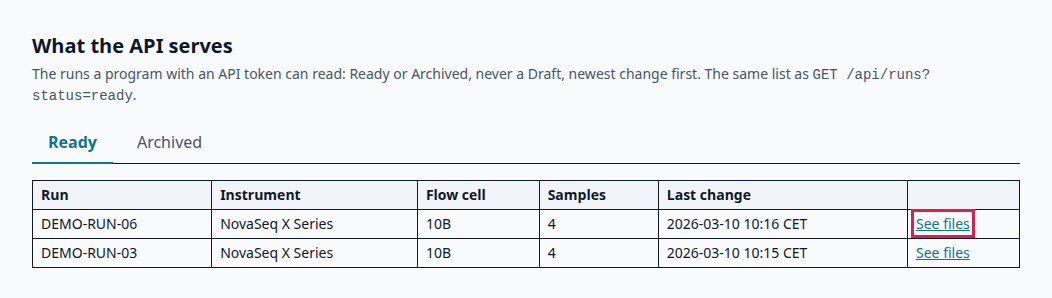
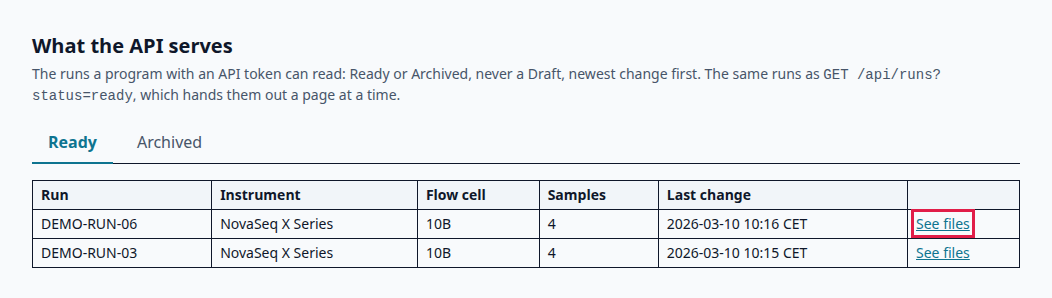
Review follow-ups: the list fits a phone; a wrong status gets the API's own words
- The list's table scrolls in its own box on a phone instead of making
  the page scroll sideways (its hidden "Files" header label too).
- A status other than ready or archived is refused with the API's exact
  400 text, and a test compares the two.
- The v1 answer for a run with no v1 sheet and no stored reason is now
  compared with the API's too.
- The list and the guide no longer say "the same list" as GET /api/runs:
  the API hands the runs out a page at a time. The guide says a Draft's
  page is not audited and why anyone signed in may look.
- The PDF size text and the back link's tab are worked out in the route,
  not the template; an unused class is gone. The list picture is retaken.

Changed region(s): [[0.73, 0.2114, 0.9125, 0.2718], [0.1217, 0.302, 0.3954, 0.3624]]

diff --git a/src/seqsetup/templates/served_runs/run.html b/src/seqsetup/templates/served_runs/run.html
@@ -5,6 +5,7 @@
      run:        SequencingRun
      files:      list[ServedFile] — routes/served_runs.py; empty for a Draft
      not_served: str — the API's 403 detail for a Draft, else ""
+     back_status: "ready" | "archived" — the list tab to go back to
 
    A stored text file is shown exactly as stored. A browser drops the one
    newline right after <pre>'s start tag, so one is written there: a file
@@ -17,7 +18,7 @@
 {% block content %}
 <div class="max-w-5xl mx-auto p-4 space-y-4">
   <div>
-    <a class="text-sm text-primary underline" href="/served-runs?status={{ 'archived' if run.status.value == 'archived' else 'ready' }}">&larr; What the API serves</a>
+    <a class="text-sm text-primary underline" href="/served-runs?status={{ back_status }}">&larr; What the API serves</a>
     <h1 class="text-xl font-semibold mt-1">{{ run.run_name or "Untitled run" }}</h1>
     <p class="text-sm text-slate-600">
       {{ run.status.value | capitalize }} &middot; <a class="text-primary underline" href="/runs/{{ run.id }}">Open the run</a>
@@ -25,7 +26,7 @@
   </div>
 
   {% if not_served %}
-  <p class="served-answer">The API does not serve Drafts. Each address answers
+  <p>The API does not serve Drafts. Each address answers
     <code>403: {{ not_served }}</code></p>
   {% else %}
   <p class="text-sm text-slate-600">
@@ -36,9 +37,9 @@
     <h2 class="font-semibold">{{ f.label }}</h2>
     <p class="text-sm"><code>GET /api/runs/{{ run.id }}/{{ f.resource }}</code></p>
     {% if f.missing %}
-    <p class="served-answer text-sm text-slate-600">The API answers <code>404: {{ f.missing }}</code></p>
+    <p class="text-sm text-slate-600">The API answers <code>404: {{ f.missing }}</code></p>
     {% elif f.pdf_size is not none %}
-    <p class="text-sm">A PDF of {{ "{:,}".format(f.pdf_size) }} bytes.
+    <p class="text-sm">A PDF of {{ f.pdf_size_text }} bytes.
       <a class="text-primary underline" href="/runs/{{ run.id }}/export/validation-pdf">Download PDF</a></p>
     {% else %}
 <pre class="served-content">

diff --git a/src/seqsetup/templates/served_runs/list.html b/src/seqsetup/templates/served_runs/list.html
@@ -15,7 +15,8 @@
     <h1 class="text-xl font-semibold mb-1">What the API serves</h1>
     <p class="text-sm text-slate-600">
       The runs a program with an API token can read: Ready or Archived, never a Draft,
-      newest change first. The same list as <code>GET /api/runs?status={{ status }}</code>.
+      newest change first. The same runs as <code>GET /api/runs?status={{ status }}</code>, which
+      hands them out a page at a time.
     </p>
   </div>
 
@@ -30,6 +31,9 @@
   {% if not runs %}
     <p class="text-slate-500">No {{ status }} runs.</p>
   {% else %}
+  {# Its columns are wider than a phone: the table scrolls in its box.
+     "relative" keeps the hidden "Files" header label inside the box too. #}
+  <div class="relative overflow-x-auto">
   <table class="w-full border-collapse text-sm">
     <thead>
       <tr class="bg-slate-100">
@@ -54,6 +58,7 @@
       {% endfor %}
     </tbody>
   </table>
+  </div>
   {% endif %}
 </div>
 {% endblock %}

diff --git a/src/seqsetup/routes/served_runs.py b/src/seqsetup/routes/served_runs.py
@@ -31,6 +31,7 @@ router = APIRouter(tags=["served-runs"])
 
 _STATUSES = ("ready", "archived")
 _NOT_SERVED = "Run not available via API. Only ready or archived runs can be accessed."
+_BAD_STATUS = "Invalid status. Only 'ready' and 'archived' are allowed via API."
 
 
 @dataclass
@@ -40,6 +41,7 @@ class ServedFile:
     label: str
     text: Optional[str] = None       # a text file's stored content
     pdf_size: Optional[int] = None   # the stored PDF's size in bytes
+    pdf_size_text: str = ""          # the same, written for reading ("1,033")
     missing: str = ""                # the API's 404 detail when nothing is stored
 
 
@@ -61,6 +63,7 @@ def _served_files(run) -> list[ServedFile]:
         ServedFile("validation-report", "Validation report (JSON)", text=run.generated_validation_json,
                    missing="" if run.generated_validation_json else "Validation report not yet generated"),
         ServedFile("validation-pdf", "Validation report (PDF)", pdf_size=len(pdf) if pdf else None,
+                   pdf_size_text=f"{len(pdf):,}" if pdf else "",
                    missing="" if pdf else "Validation PDF not yet generated"),
     ]
 
@@ -68,7 +71,7 @@ def _served_files(run) -> list[ServedFile]:
 @router.get("/served-runs", response_class=HTMLResponse)
 def served_runs(request: Request, status: str = "ready", ctx: AppContext = Depends(get_ctx)) -> Response:
     if status not in _STATUSES:
-        raise HTTPException(status_code=400, detail="Only Ready and Archived runs are served by the API.")
+        raise HTTPException(status_code=400, detail=_BAD_STATUS)
     runs = ctx.run_repo.list_by_status(status)
     # The API's order: newest change first (api/app.py list_runs).
     runs.sort(key=lambda r: r.updated_at or r.created_at, reverse=True)
@@ -87,4 +90,5 @@ def served_run(request: Request, run_id: str, ctx: AppContext = Depends(get_ctx)
         "run": run,
         "files": _served_files(run) if served else [],
         "not_served": "" if served else _NOT_SERVED,
+        "back_status": "archived" if run.status == RunStatus.ARCHIVED else "ready",
     })

diff --git a/tests/integration/test_served_runs.py b/tests/integration/test_served_runs.py
@@ -102,8 +102,12 @@ class TestTheList:
             assert "draft-1" not in page and "Hidden draft" not in page
 
     @pytest.mark.parametrize("status", ["draft", "all", ""])
-    def test_another_status_is_refused_like_the_api(self, logged_in_client, status):
-        assert logged_in_client.get(f"/served-runs?status={status}").status_code == 400
+    def test_another_status_is_refused_like_the_api(self, logged_in_client, client, fresh_app, status):
+        _app, ctx, _db = fresh_app
+        api = client.get(f"/api/runs?status={status}", headers={"Authorization": f"Bearer {_token(ctx)}"})
+        page = logged_in_client.get(f"/served-runs?status={status}")
+        assert api.status_code == page.status_code == 400
+        assert api.json()["detail"] in html.unescape(page.text)
 
     def test_it_names_the_api_address(self, logged_in_client):
         assert "GET /api/runs?status=archived" in logged_in_client.get("/served-runs?status=archived").text
@@ -168,9 +172,11 @@ class TestOneRunsFiles:
         assert "<script>alert(1)</script>" not in page
         assert "&lt;script&gt;alert(1)&lt;/script&gt;" in page
 
-    def test_a_missing_file_shows_the_api_answer(self, logged_in_client, client, fresh_app):
+    @pytest.mark.parametrize("withheld", ["the test's profile has no v1 settings", ""])
+    def test_a_missing_file_shows_the_api_answer(self, logged_in_client, client, fresh_app, withheld):
+        """With and without a reason Mark Ready stored for making no v1 sheet."""
         _app, ctx, _db = fresh_app
-        run_id = _run(ctx, "bare", samplesheet_v1_withheld="the test's profile has no v1 settings")
+        run_id = _run(ctx, "bare", samplesheet_v1_withheld=withheld)
         token = _token(ctx)
         page = logged_in_client.get(f"/served-runs/{run_id}").text
 

diff --git a/tests/browser/test_served_run_long_lines.py b/tests/browser/test_served_run_long_lines.py
@@ -1,7 +1,9 @@
-"""A stored file's long line scrolls inside its box, not the whole page.
+"""What the API serves, on a narrow screen: wide content scrolls inside
+its box, not the whole page.
 
 A Sample Sheet or JSON line can be far wider than a phone, or than a
-laptop's window; the page itself must not scroll sideways.
+laptop's window, and so can the list's columns; the page itself must not
+scroll sideways.
 """
 
 from datetime import datetime
@@ -29,6 +31,18 @@ def run_id(app_ctx):
     app_ctx.run_repo.save(run)
     yield run.id
     app_ctx.run_repo.collection.delete_one({"_id": run.id})
+
+
+@pytest.mark.browser
+def test_the_list_fits_a_phone(logged_in_page, base_url, run_id):
+    """The list's columns are wider than a phone: the table scrolls in its
+    box, not the page."""
+    page = logged_in_page
+    page.set_viewport_size({"width": 390, "height": 800})
+    page.goto(f"{base_url}/served-runs")
+    page.wait_for_load_state("networkidle")
+    assert page.locator(f"#served-run-{run_id}").is_visible()
+    assert page.evaluate("document.documentElement.scrollWidth <= window.innerWidth")
 
 
 @pytest.mark.browser

diff --git a/docs/user-guide/export.rst b/docs/user-guide/export.rst
@@ -101,7 +101,8 @@ serves** in the sidebar, or **See what the API serves for this run** in a
 Ready or Archived run's Export panel.
 
 The first page lists the runs the API lists -- Ready, or Archived, never a
-Draft -- newest change first, as ``GET /api/runs`` gives them:
+Draft -- newest change first, as ``GET /api/runs`` gives them (the API hands
+them out a page at a time; this page shows them all):
 
 .. figure:: /_static/screenshots/export/served-runs.png
    :alt: The "What the API serves" page: Ready and Archived tabs above a table of Ready runs, with a See files link outlined.
@@ -120,9 +121,9 @@ not serve it.
 
    One run's Sample Sheet v2 as the API serves it, its address outlined.
 
-Anyone signed in can open these pages; they show only what the Export
-panel's downloads already give. Opening a run's page is recorded in the
-audit trail as ``export.viewed``.
+Anyone signed in can open these pages, as anyone signed in can download
+a Ready run's files. Opening a Ready or Archived run's page is recorded in
+the audit trail as ``export.viewed``.
 
 Sample Sheet v2 format
 -------------------------
